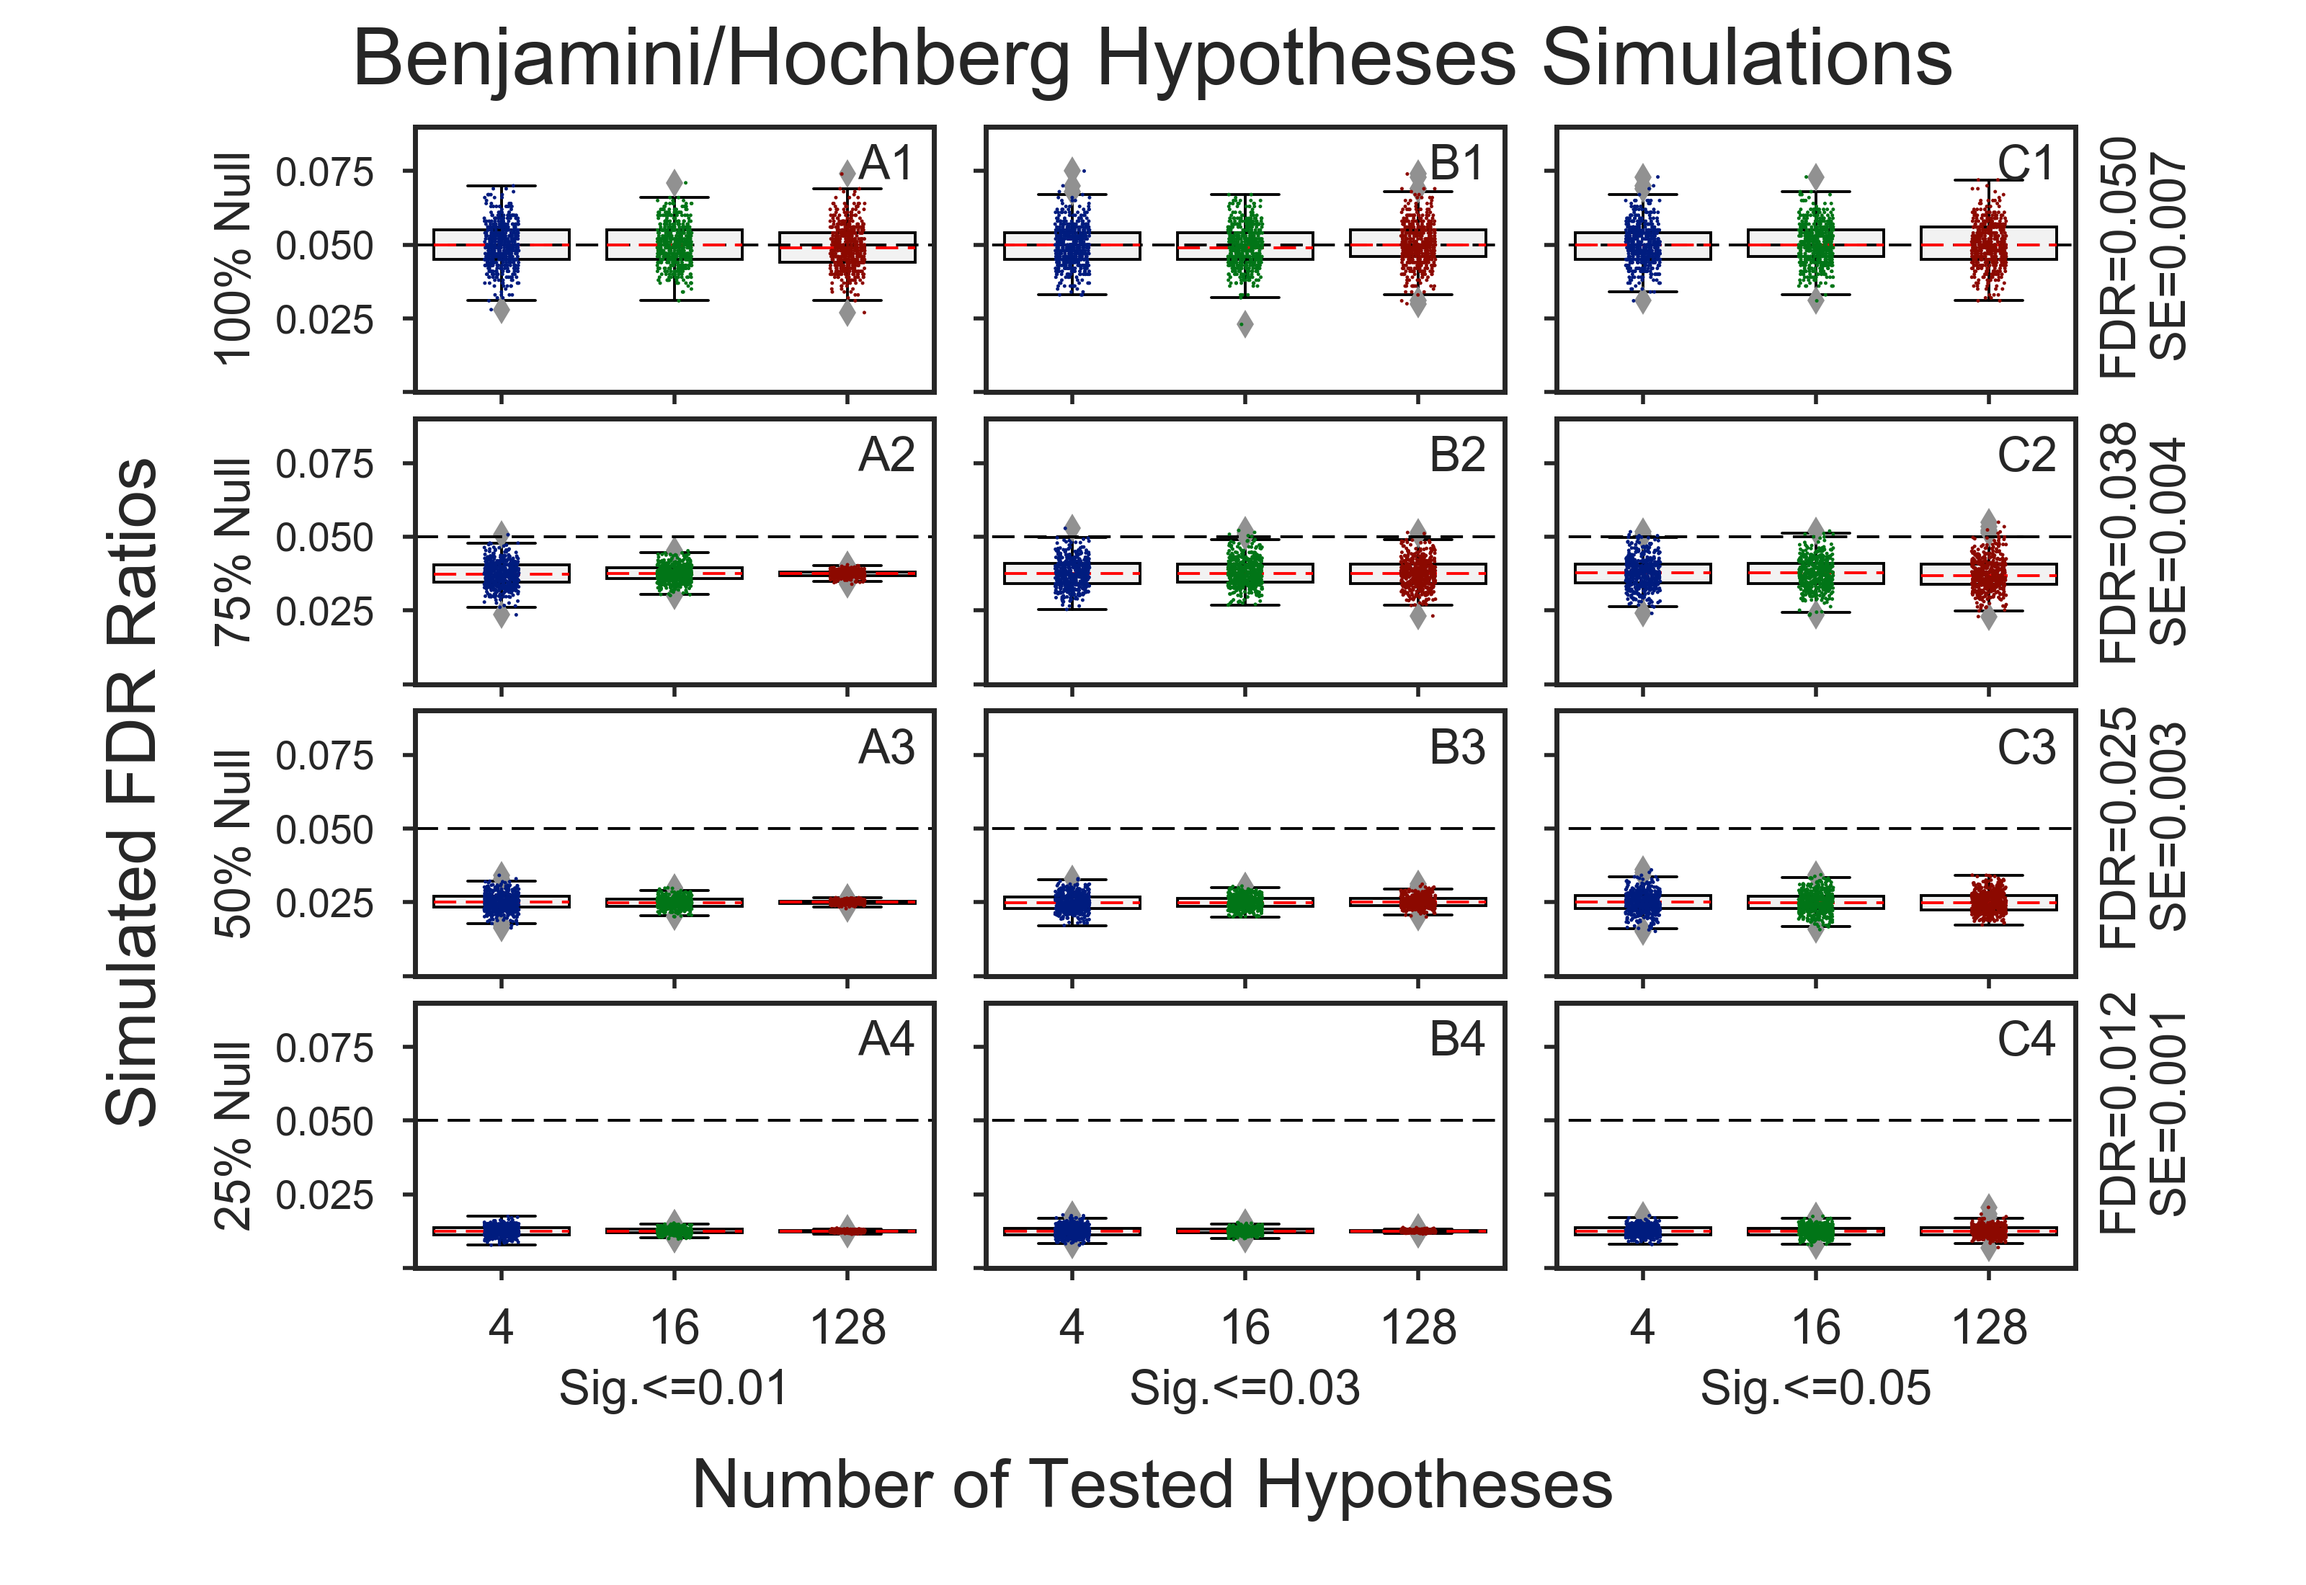
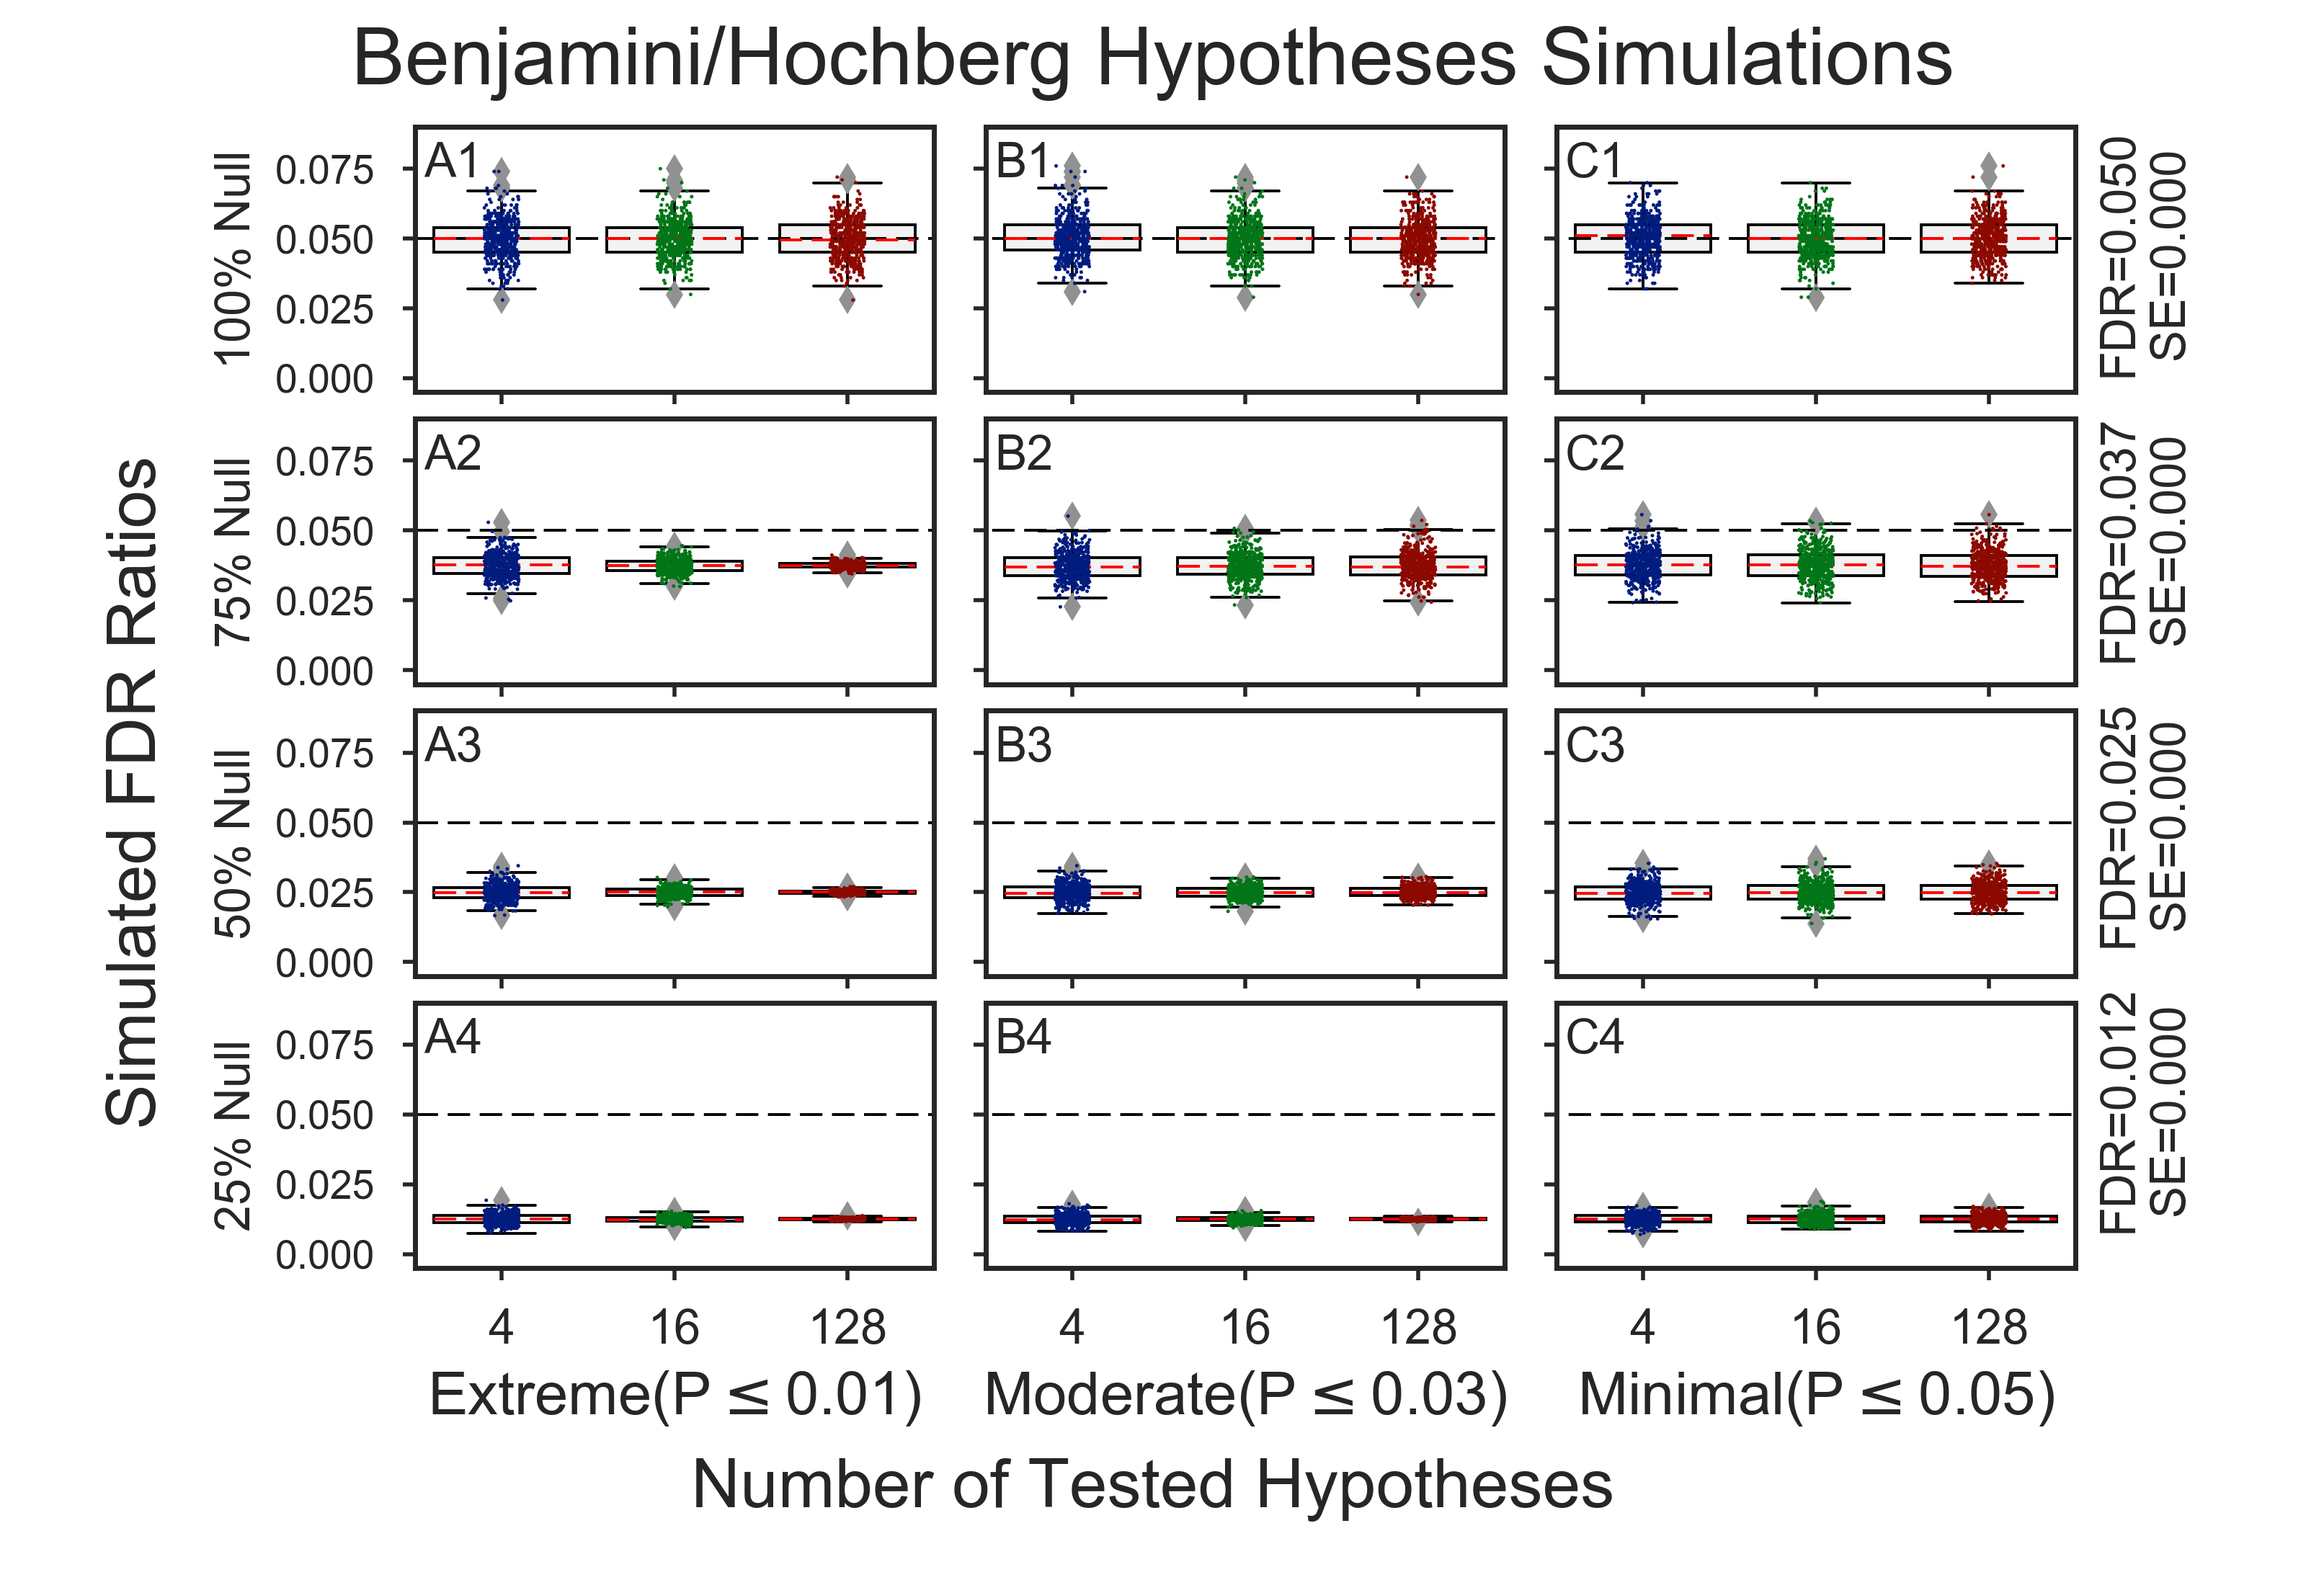
Updated png to include desc of non-true null P-values

diff --git a/src/bin/plt_benjamini_hochberg.py b/src/bin/plt_benjamini_hochberg.py
@@ -32,10 +32,10 @@ if __name__:
     #pylint: disable=bad-whitespace, no-member
     PARAMS = [
         # NTOBJ._make([500, 2500, {'fdr_actual':0.70, 'sensitivity':0.40}]), # 00:NN:NN
-        # NTOBJ._make([500, 1000, {'fdr_actual':0.90, 'sensitivity':0.50}]), # 00:NN:NN
+        NTOBJ._make([500, 1000, {'fdr_actual':0.90, 'sensitivity':0.50}]), # 02:37:NN
         # NTOBJ._make([100, 1000, {'fdr_actual':1.20, 'sensitivity':0.65}]), # 00:24:31
         # NTOBJ._make([ 20,  200, {'fdr_actual':2.00, 'sensitivity':2.00}]), # 00:01:00
-        NTOBJ._make([ 10,   10, {'fdr_actual':2.00, 'sensitivity':2.00}]), # 00:00:02
+        # NTOBJ._make([ 10,   10, {'fdr_actual':2.00, 'sensitivity':2.00}]), # 00:00:02
     ]
     for ntd in PARAMS:
         main(SEED, ntd.num_experiments, ntd.num_sims, ntd.dotsize)

diff --git a/README.md b/README.md
@@ -53,7 +53,7 @@ Compensating for untagged enrichments is shown in Figure 2.
 ![figure](doc/logs/fig_goea_100to000_004to124_N00050_00020_humoral_rsp.png)
 **Observations:**    
 * Small groups of study genes (e.g. 4 genes and sometimes 16 genes) show low sensitivity
-  (blue bars in B2-B4, green bars in B2-B3),
+  (blue bars in B2-B5, green bars in B2-B3),
   meaning study genes enriched in _Humoral Response_ in very small study gene groups may not be detected.
 
 ### Figure 2) GOEA Simulations with _true null genes'_ associations randomized
@@ -80,16 +80,16 @@ study sets in GOEA simulations which contain genes with various levels of enrich
 
 ### Simulation Inputs
 The simulation inputs are groups of hypothesis test results (P-values) tagged as 
-either **False nulls** and **True nulls**:
-  * _**True Null**_s are P-values randomly chosen from a uniform distribution of values between **0.0 to 1.0**.    
-  * _**Non-True Null**_s are P-values randomly chosen from a uniform distribution of values between:    
-    * **0.00 to 0.01** => Extremely different from the population.    
-    * **0.00 to 0.03** => Moderately different from the population.    
-    * **0.00 to 0.05** => Minimally different from the population.    
+either **True nulls** and **Non-True nulls**:
+  * **True Null**s are P-values randomly chosen from a uniform distribution of values between **0.0 to 1.0**.    
+  * **Non-True Null**s (a.k.a **False Nulls**) are P-values randomly chosen from a uniform distribution of values between:    
+    * **0.00 to 0.01** => **Extremely** different from the population.    
+    * **0.00 to 0.03** => **Moderately** different from the population.    
+    * **0.00 to 0.05** => **Minimally** different from the population.    
 
 ### Figure 3) Benjamini/Hochberg-Only Simulated FDRs
 ![FDR results](doc/logs/fig_hypoth_100to025_01to05_004to128_N00100_01000_fdr_actual.png)
-Results show:
+**Results show**:
   * The worst (highest) simulated FDR means are equal to the alpha (0.05)
     for all simulation sets with no **False null** s (A1, B1, and C1).    
   * As the percentage of true nulls drops, the FDR also drops;
